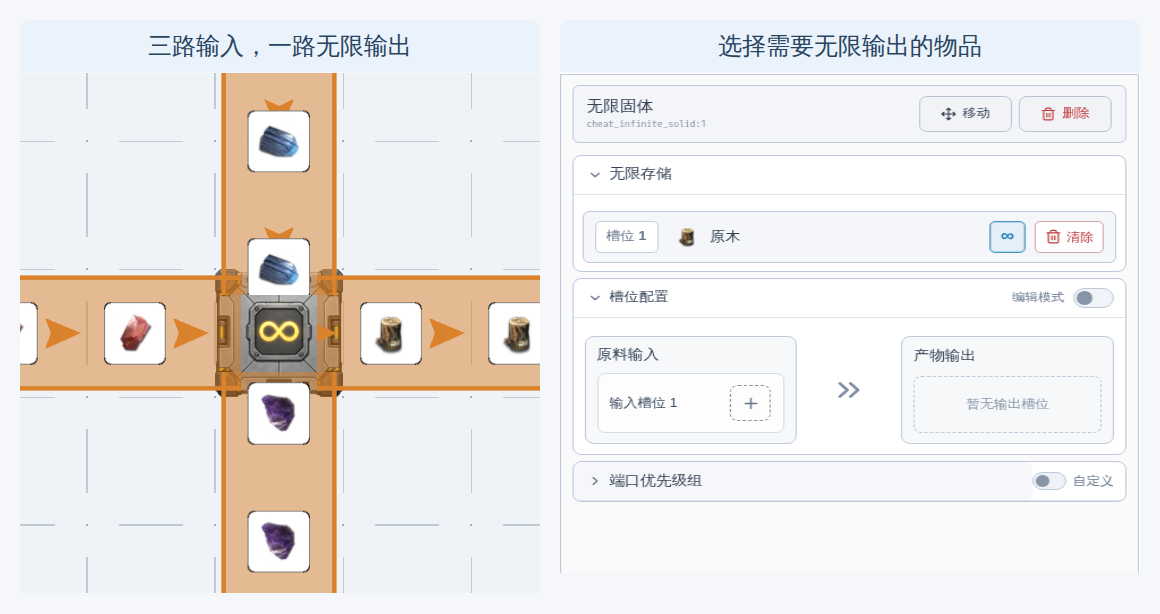
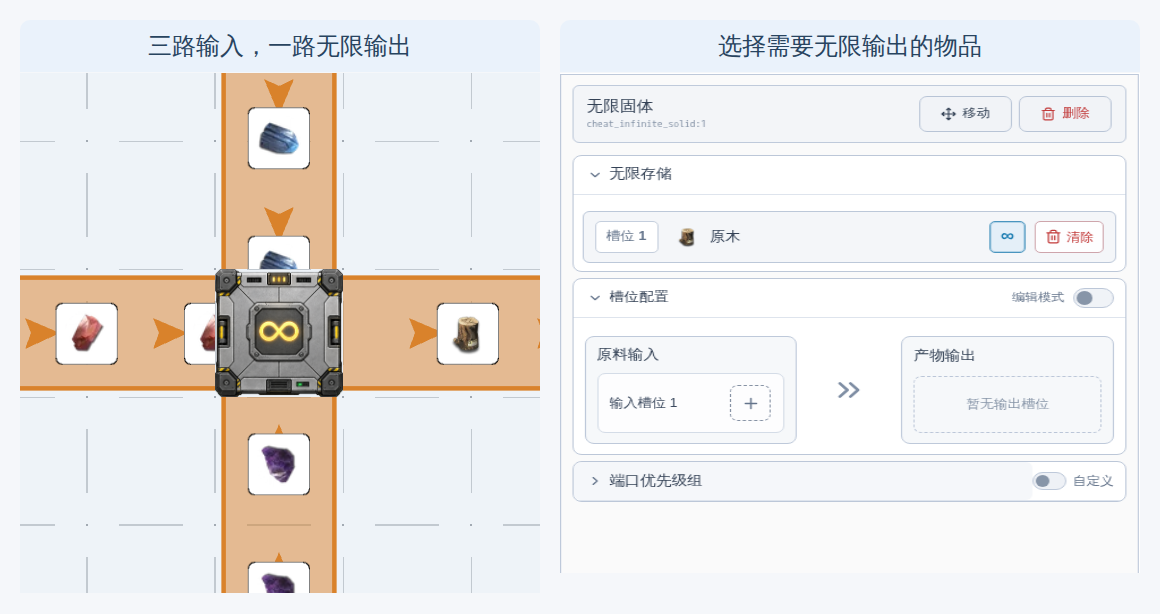
fix: 修复多活动标签可用性与无限固体传送带外观，并更新演示资料

Changed region(s): [[0.0, 0.3404, 0.4655, 0.9902], [0.2172, 0.1238, 0.2793, 0.3094]]

diff --git a/src/tests/renderer/belt-visual-geometry.test.ts b/src/tests/renderer/belt-visual-geometry.test.ts
@@ -128,6 +128,38 @@ describe("BeltVisualGeometry", () => {
     expect(resolveBeltPortExtensionEntries(logisticsToBeltCtx as never)).toEqual([])
   })
 
+  it("does not create extension entries when strict belts connect to the infinite solid device", () => {
+    const beltToInfiniteCtx = createGeometryContext({
+      entities: [
+        createBeltEntity("source-belt", { x: 0, y: 0 }, 0),
+        {
+          id: "target-infinite",
+          definitionId: "cheat_infinite_solid",
+          position: { x: 1, y: 0 },
+          rotation: 0,
+          config: {},
+          tags: [],
+        },
+      ],
+    })
+    const infiniteToBeltCtx = createGeometryContext({
+      entities: [
+        {
+          id: "source-infinite",
+          definitionId: "cheat_infinite_solid",
+          position: { x: -1, y: 0 },
+          rotation: 0,
+          config: {},
+          tags: [],
+        },
+        createBeltEntity("target-belt", { x: 0, y: 0 }, 0),
+      ],
+    })
+
+    expect(resolveBeltPortExtensionEntries(beltToInfiniteCtx as never)).toEqual([])
+    expect(resolveBeltPortExtensionEntries(infiniteToBeltCtx as never)).toEqual([])
+  })
+
   it("resolves a device output protrusion into a strict belt input", () => {
     const ctx = createGeometryContext({
       entities: [

diff --git a/src/tests/shared/activity-availability.test.ts b/src/tests/shared/activity-availability.test.ts
@@ -53,11 +53,21 @@ describe("activity availability", () => {
     })).toEqual([ACTIVITY_LIMITED_FORMULA_1_ID]);
   });
 
-  it("requires every activity tag on a definition to be effective", () => {
+  it("treats a definition as effective when any activity tag is effective", () => {
+    const anotherActivityId = "another-activity";
+    const anotherActivityTag = `activity:${anotherActivityId}`;
+
     expect(resolveActivityIdsFromTags(["non-activity", ACTIVITY_LIMITED_FORMULA_1_TAG]))
       .toEqual([ACTIVITY_LIMITED_FORMULA_1_ID]);
-    expect(areActivityTagsEffective([ACTIVITY_LIMITED_FORMULA_1_TAG], [])).toBe(false);
-    expect(areActivityTagsEffective([ACTIVITY_LIMITED_FORMULA_1_TAG], [ACTIVITY_LIMITED_FORMULA_1_ID])).toBe(true);
+    expect(areActivityTagsEffective([ACTIVITY_LIMITED_FORMULA_1_TAG, anotherActivityTag], [])).toBe(false);
+    expect(areActivityTagsEffective(
+      [ACTIVITY_LIMITED_FORMULA_1_TAG, anotherActivityTag],
+      [ACTIVITY_LIMITED_FORMULA_1_ID],
+    )).toBe(true);
+    expect(areActivityTagsEffective(
+      [ACTIVITY_LIMITED_FORMULA_1_TAG, anotherActivityTag],
+      [anotherActivityId],
+    )).toBe(true);
     expect(areActivityTagsEffective(["non-activity"], [])).toBe(true);
   });
 });

diff --git a/src/renderer/scene/decorations/BeltVisualGeometry.ts b/src/renderer/scene/decorations/BeltVisualGeometry.ts
@@ -218,9 +218,10 @@ export function isStrictBeltDefinitionId(
 
 function isBeltPortExtensionEndpointDevice(
   ctx: DecorationSyncContext,
-  definitionId: string,
+  definition: EntityDefinition,
 ): boolean {
-  return !ctx.renderHost.workspace.registry.queries.isGeneralLogisticsDevice(definitionId)
+  return !ctx.renderHost.workspace.registry.queries.isGeneralLogisticsDevice(definition.id)
+    && !definition.tags.includes("BeltPortExtensionHidden")
 }
 
 export function resolveBeltInsertionEntries(ctx: DecorationSyncContext): BeltInsertionEntry[] {
@@ -366,7 +367,7 @@ function resolveBeltConnectedPortState(
     }
 
     hasConnectedPort = true
-    if (isBeltPortExtensionEndpointDevice(ctx, port.entity.definitionId)) {
+    if (isBeltPortExtensionEndpointDevice(ctx, port.definition)) {
       extensionPort = port
       break
     }

diff --git a/src/tests/registry/cheat-infinite-device-definition.test.ts b/src/tests/registry/cheat-infinite-device-definition.test.ts
@@ -43,7 +43,11 @@ describe("cheat infinite device definitions", () => {
         iconPath: `device-icons/${deviceCase.id}.webp`,
         footprint: { width: 1, height: 1 },
         uiGroup: "cheat",
-        tags: ["AvatarHidden", "ChevronHidden"],
+        tags: [
+          "AvatarHidden",
+          "ChevronHidden",
+          ...(deviceCase.isPipe ? [] : ["BeltPortExtensionHidden"]),
+        ],
         requiresPower: false,
         powerDemand: 0,
       });

diff --git a/src/registry/entity-definition.ts b/src/registry/entity-definition.ts
@@ -882,7 +882,11 @@ function createCheatInfiniteDeviceDefinition(options: {
     footprint: { width: 1, height: 1 },
     uiGroup: "cheat",
     displayOrder: options.displayOrder,
-    tags: ["AvatarHidden", "ChevronHidden"],
+    tags: [
+      "AvatarHidden",
+      "ChevronHidden",
+      ...(options.isPipe ? [] : ["BeltPortExtensionHidden"]),
+    ],
     requiresPower: false,
     powerDemand: 0,
     portGroups: [

diff --git a/src/shared/registry/activity-availability.ts b/src/shared/registry/activity-availability.ts
@@ -107,7 +107,7 @@ export function areActivityTagsEffective(
   }
 
   const effectiveActivityIdSet = new Set(effectiveActivityIds);
-  return activityIds.every((activityId) => effectiveActivityIdSet.has(activityId));
+  return activityIds.some((activityId) => effectiveActivityIdSet.has(activityId));
 }
 
 export function isItemAvailableByActivity(
